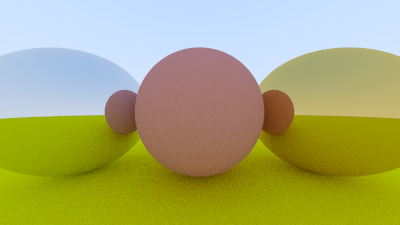
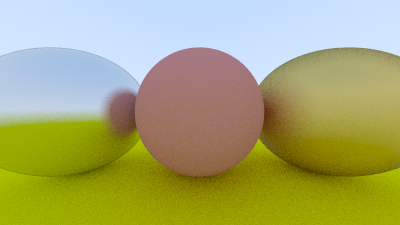
8.5, added fuzziness

diff --git a/src/material.rs b/src/material.rs
@@ -40,12 +40,16 @@ impl Material for Lambertian {
 }
 
 #[derive(Debug, Constructor)]
-pub struct Metal(Colour);
+pub struct Metal {
+    colour: Colour,
+    fuzz: f64,
+}
 
 impl Material for Metal {
     fn scatter(&self, incident_ray: &Ray, hit: &Hit) -> Option<Reflection> {
         //the reflected ray direction
-        let reflection = reflect(incident_ray.direction, &hit.normal);
+        let reflection =
+            reflect(incident_ray.direction, &hit.normal) + self.fuzz * Vec3::rand_unit();
 
         //the scattered ray
         let scattered = Ray::new(hit.impact_point, reflection);
@@ -53,7 +57,7 @@ impl Material for Metal {
         if scattered.direction.dot(&hit.normal) > 0.0 {
             Some(Reflection {
                 ray: scattered,
-                colour_attenuation: self.0,
+                colour_attenuation: self.colour,
             })
         } else {
             None

diff --git a/src/main.rs b/src/main.rs
@@ -44,13 +44,13 @@ fn main() {
             //left
             v!(-1.0, 0.0, -1.0),
             0.5,
-            Metal::new(v!(0.8, 0.8, 0.8)),
+            Metal::new(v!(0.8, 0.8, 0.8), 0.3),
         )),
         Box::new(Sphere::new(
             //right
             v!(1.0, 0.0, -1.0),
             0.5,
-            Metal::new(v!(0.8, 0.6, 0.2)),
+            Metal::new(v!(0.8, 0.6, 0.2), 1.0),
         )),
     ];
 
